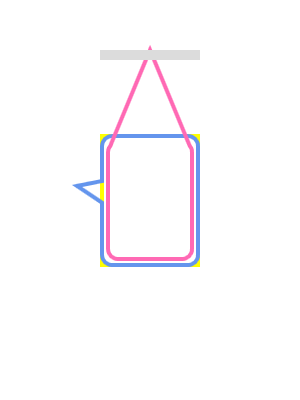
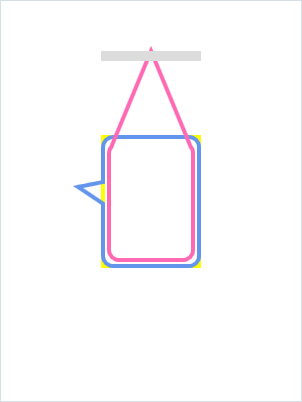
Try to get image tests to work on CI.

diff --git a/Gu.Wpf.Geometry.Demo/Windows/BoxBalloonPlacementTargetAndRectangleWindow.xaml b/Gu.Wpf.Geometry.Demo/Windows/BoxBalloonPlacementTargetAndRectangleWindow.xaml
@@ -11,56 +11,31 @@
         UseLayoutRounding="True"
         WindowStartupLocation="Manual"
         mc:Ignorable="d">
-    <Canvas Width="400" Height="400">
-        <Grid Width="400" Height="400">
-            <Grid.RowDefinitions>
-                <RowDefinition />
-                <RowDefinition />
-                <RowDefinition />
-            </Grid.RowDefinitions>
-            <Grid.ColumnDefinitions>
-                <ColumnDefinition />
-                <ColumnDefinition />
-                <ColumnDefinition />
-                <ColumnDefinition />
-            </Grid.ColumnDefinitions>
-            <GroupBox x:Name="Render"
-                      Grid.Row="0"
-                      Grid.RowSpan="3"
-                      Grid.Column="0"
-                      Grid.ColumnSpan="3"
-                      BorderThickness="0"
-                      Style="{StaticResource InvisibleGroupBoxStyle}" />
+    <Grid>
+        <Grid.ColumnDefinitions>
+            <ColumnDefinition Width="Auto" />
+            <ColumnDefinition Width="Auto" />
+        </Grid.ColumnDefinitions>
+        <GroupBox x:Name="Render"
+                  Style="{StaticResource InvisibleGroupBoxStyle}" >
+            <Grid Width="300" Height="400">
+                <Grid.RowDefinitions>
+                    <RowDefinition />
+                    <RowDefinition />
+                    <RowDefinition />
+                </Grid.RowDefinitions>
+                <Grid.ColumnDefinitions>
+                    <ColumnDefinition />
+                    <ColumnDefinition />
+                    <ColumnDefinition />
+                </Grid.ColumnDefinitions>
 
-            <ListBox x:Name="Placements"
-                     Grid.Row="0"
-                     Grid.RowSpan="3"
-                     Grid.Column="3"
-                     SelectedIndex="0">
-                <effects:PlacementOptions>Auto</effects:PlacementOptions>
-                <effects:PlacementOptions>Auto 5</effects:PlacementOptions>
-                <effects:PlacementOptions>Auto -5</effects:PlacementOptions>
-                <effects:PlacementOptions>Center</effects:PlacementOptions>
-                <effects:PlacementOptions>Center 5</effects:PlacementOptions>
-                <effects:PlacementOptions>Center -5</effects:PlacementOptions>
-                <effects:PlacementOptions>Top Left</effects:PlacementOptions>
-                <effects:PlacementOptions>Top Center</effects:PlacementOptions>
-                <effects:PlacementOptions>Top Right</effects:PlacementOptions>
-                <effects:PlacementOptions>Bottom Left</effects:PlacementOptions>
-                <effects:PlacementOptions>Bottom Center</effects:PlacementOptions>
-                <effects:PlacementOptions>Bottom Right</effects:PlacementOptions>
-                <effects:PlacementOptions>Auto Center</effects:PlacementOptions>
-                <effects:PlacementOptions>Auto Left</effects:PlacementOptions>
-                <effects:PlacementOptions>Auto Right</effects:PlacementOptions>
-                <effects:PlacementOptions>Auto Top</effects:PlacementOptions>
-                <effects:PlacementOptions>Auto Bottom</effects:PlacementOptions>
-            </ListBox>
-            <Rectangle Grid.Row="1"
+                <Rectangle Grid.Row="1"
                        Grid.Column="1"
                        Stroke="Yellow"
                        StrokeThickness="4" />
 
-            <effects:BoxBalloon Grid.Row="1"
+                <effects:BoxBalloon Grid.Row="1"
                                 Grid.Column="1"
                                 ConnectorAngle="45"
                                 ConnectorOffset="-25,-5"
@@ -68,7 +43,7 @@
                                 Stroke="CornflowerBlue"
                                 StrokeThickness="4" />
 
-            <effects:BoxBalloon Grid.Row="1"
+                <effects:BoxBalloon Grid.Row="1"
                                 Grid.Column="1"
                                 Margin="6"
                                 ConnectorAngle="45"
@@ -81,12 +56,42 @@
                                                                                          AncestorType={x:Type Canvas}}}"
                                 Stroke="HotPink"
                                 StrokeThickness="4" />
-        </Grid>
-        <Rectangle x:Name="Target"
-                   Canvas.Left="100"
-                   Canvas.Top="50"
-                   Width="100"
-                   Height="10"
-                   Fill="Gainsboro" />
-    </Canvas>
+
+                <Canvas Grid.Row="0"
+                    Grid.RowSpan="3"
+                    Grid.Column="0"
+                    Grid.ColumnSpan="3">
+
+                    <Rectangle x:Name="Target"
+                           Canvas.Left="100"
+                           Canvas.Top="50"
+                           Width="100"
+                           Height="10"
+                           Fill="Gainsboro" />
+                </Canvas>
+            </Grid>
+        </GroupBox>
+
+        <ListBox x:Name="Placements"
+                 Grid.Column="1"
+                 SelectedIndex="0">
+            <effects:PlacementOptions>Auto</effects:PlacementOptions>
+            <effects:PlacementOptions>Auto 5</effects:PlacementOptions>
+            <effects:PlacementOptions>Auto -5</effects:PlacementOptions>
+            <effects:PlacementOptions>Center</effects:PlacementOptions>
+            <effects:PlacementOptions>Center 5</effects:PlacementOptions>
+            <effects:PlacementOptions>Center -5</effects:PlacementOptions>
+            <effects:PlacementOptions>Top Left</effects:PlacementOptions>
+            <effects:PlacementOptions>Top Center</effects:PlacementOptions>
+            <effects:PlacementOptions>Top Right</effects:PlacementOptions>
+            <effects:PlacementOptions>Bottom Left</effects:PlacementOptions>
+            <effects:PlacementOptions>Bottom Center</effects:PlacementOptions>
+            <effects:PlacementOptions>Bottom Right</effects:PlacementOptions>
+            <effects:PlacementOptions>Auto Center</effects:PlacementOptions>
+            <effects:PlacementOptions>Auto Left</effects:PlacementOptions>
+            <effects:PlacementOptions>Auto Right</effects:PlacementOptions>
+            <effects:PlacementOptions>Auto Top</effects:PlacementOptions>
+            <effects:PlacementOptions>Auto Bottom</effects:PlacementOptions>
+        </ListBox>
+    </Grid>
 </Window>

diff --git a/Gu.Wpf.Geometry.Demo/Windows/BoxBalloonPlacementRectangleWindow.xaml b/Gu.Wpf.Geometry.Demo/Windows/BoxBalloonPlacementRectangleWindow.xaml
@@ -2,9 +2,7 @@
         xmlns:x="http://schemas.microsoft.com/winfx/2006/xaml"
         xmlns:converters="clr-namespace:Gu.Wpf.Geometry.Demo.Converters"
         xmlns:d="http://schemas.microsoft.com/expression/blend/2008"
-        xmlns:demo="clr-namespace:Gu.Wpf.Geometry.Demo"
         xmlns:effects="http://gu.se/Geometry"
-        xmlns:local="clr-namespace:Gu.Wpf.Geometry.Demo.Windows"
         xmlns:mc="http://schemas.openxmlformats.org/markup-compatibility/2006"
         Title="BoxBallonWindow"
         Left="200"
@@ -19,51 +17,55 @@
             <ColumnDefinition Width="Auto" />
         </Grid.ColumnDefinitions>
         <GroupBox x:Name="Render" Style="{StaticResource InvisibleGroupBoxStyle}">
-            <Canvas Width="300" Height="400">
-                <Grid Width="300" Height="400">
-                    <Grid.RowDefinitions>
-                        <RowDefinition />
-                        <RowDefinition />
-                        <RowDefinition />
-                    </Grid.RowDefinitions>
-                    <Grid.ColumnDefinitions>
-                        <ColumnDefinition />
-                        <ColumnDefinition />
-                        <ColumnDefinition />
-                    </Grid.ColumnDefinitions>
+            <Grid Width="300" Height="400">
+                <Grid.RowDefinitions>
+                    <RowDefinition />
+                    <RowDefinition />
+                    <RowDefinition />
+                </Grid.RowDefinitions>
+                <Grid.ColumnDefinitions>
+                    <ColumnDefinition />
+                    <ColumnDefinition />
+                    <ColumnDefinition />
+                </Grid.ColumnDefinitions>
 
-                    <Rectangle Grid.Row="1"
-                               Grid.Column="1"
-                               Stroke="Yellow"
-                               StrokeThickness="4" />
+                <Rectangle Grid.Row="1"
+                           Grid.Column="1"
+                           Stroke="Yellow"
+                           StrokeThickness="4" />
 
-                    <effects:BoxBalloon Grid.Row="1"
-                                        Grid.Column="1"
-                                        ConnectorAngle="45"
-                                        ConnectorOffset="-25,-5"
-                                        CornerRadius="10"
-                                        Stroke="CornflowerBlue"
-                                        StrokeThickness="4" />
+                <effects:BoxBalloon Grid.Row="1"
+                                    Grid.Column="1"
+                                    ConnectorAngle="45"
+                                    ConnectorOffset="-25,-5"
+                                    CornerRadius="10"
+                                    Stroke="CornflowerBlue"
+                                    StrokeThickness="4" />
 
-                    <effects:BoxBalloon Grid.Row="1"
-                                        Grid.Column="1"
-                                        Margin="6"
-                                        ConnectorAngle="45"
-                                        CornerRadius="10"
-                                        PlacementOptions="{Binding SelectedItem,
+                <effects:BoxBalloon Grid.Row="1"
+                                    Grid.Column="1"
+                                    Margin="6"
+                                    ConnectorAngle="45"
+                                    CornerRadius="10"
+                                    PlacementOptions="{Binding SelectedItem,
                                                                    ElementName=Placements}"
-                                        PlacementRectangle="{Binding ElementName=Target,
-                                                                     Converter={converters:ElementToBoundsRectConverter AncestorType={x:Type Canvas}}}"
-                                        Stroke="HotPink"
-                                        StrokeThickness="4" />
-                </Grid>
-                <Rectangle x:Name="Target"
-                           Canvas.Left="100"
-                           Canvas.Top="50"
-                           Width="100"
-                           Height="10"
-                           Fill="Gainsboro" />
-            </Canvas>
+                                    PlacementRectangle="{Binding ElementName=Target,
+                                                                 Converter={converters:ElementToBoundsRectConverter AncestorType={x:Type Canvas}}}"
+                                    Stroke="HotPink"
+                                    StrokeThickness="4" />
+
+                <Canvas Grid.Row="0"
+                        Grid.RowSpan="3"
+                        Grid.Column="0"
+                        Grid.ColumnSpan="3">
+                    <Rectangle x:Name="Target"
+                               Canvas.Left="100"
+                               Canvas.Top="50"
+                               Width="100"
+                               Height="10"
+                               Fill="Gainsboro" />
+                </Canvas>
+            </Grid>
         </GroupBox>
 
         <ListBox x:Name="Placements"

diff --git a/Gu.Wpf.Geometry.Demo/App.xaml b/Gu.Wpf.Geometry.Demo/App.xaml
@@ -15,6 +15,7 @@
     <!--<Application.StartupUri>Windows/GradientPathLineCapsWindow.xaml</Application.StartupUri>-->
     <Application.Resources>
         <Style x:Key="InvisibleGroupBoxStyle" TargetType="{x:Type GroupBox}">
+            <Setter Property="BorderThickness" Value="0" />
             <Setter Property="Template">
                 <Setter.Value>
                     <ControlTemplate TargetType="{x:Type GroupBox}">
